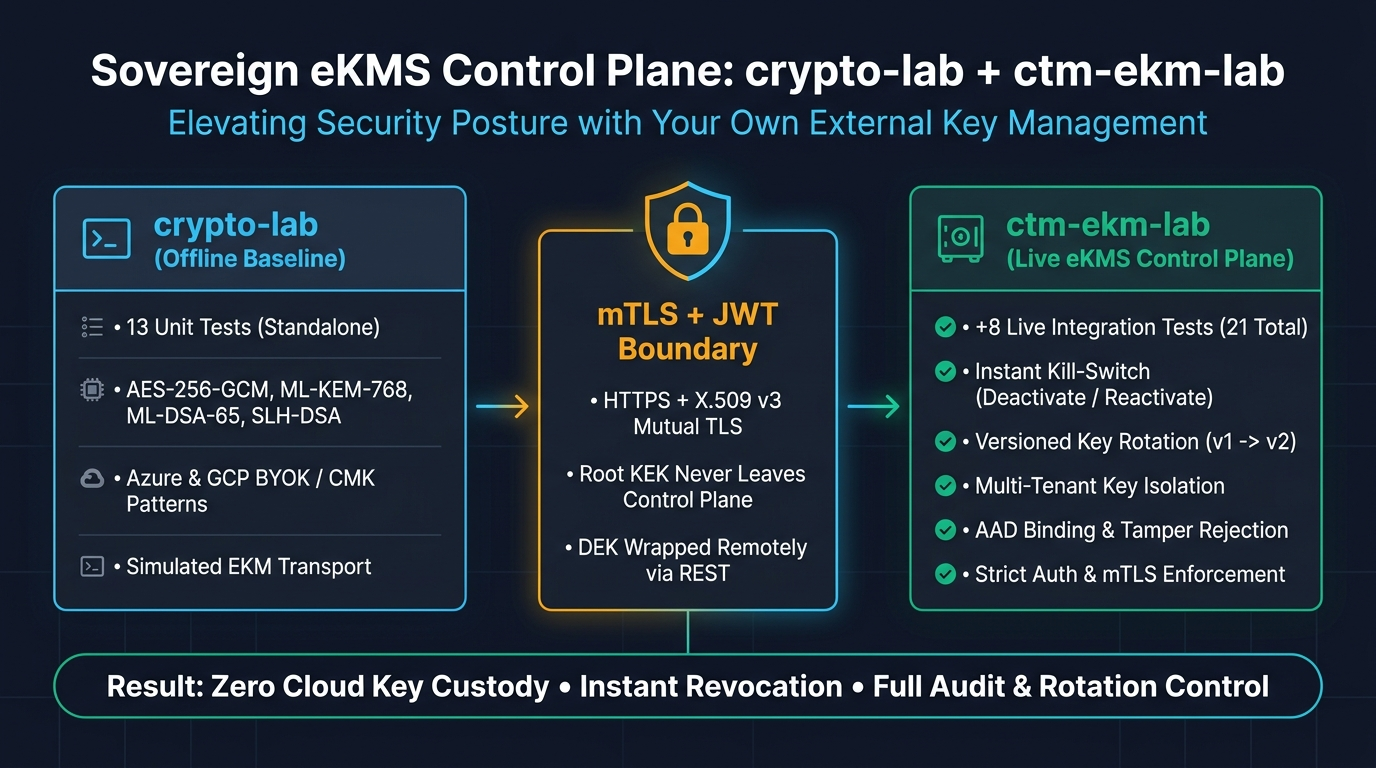
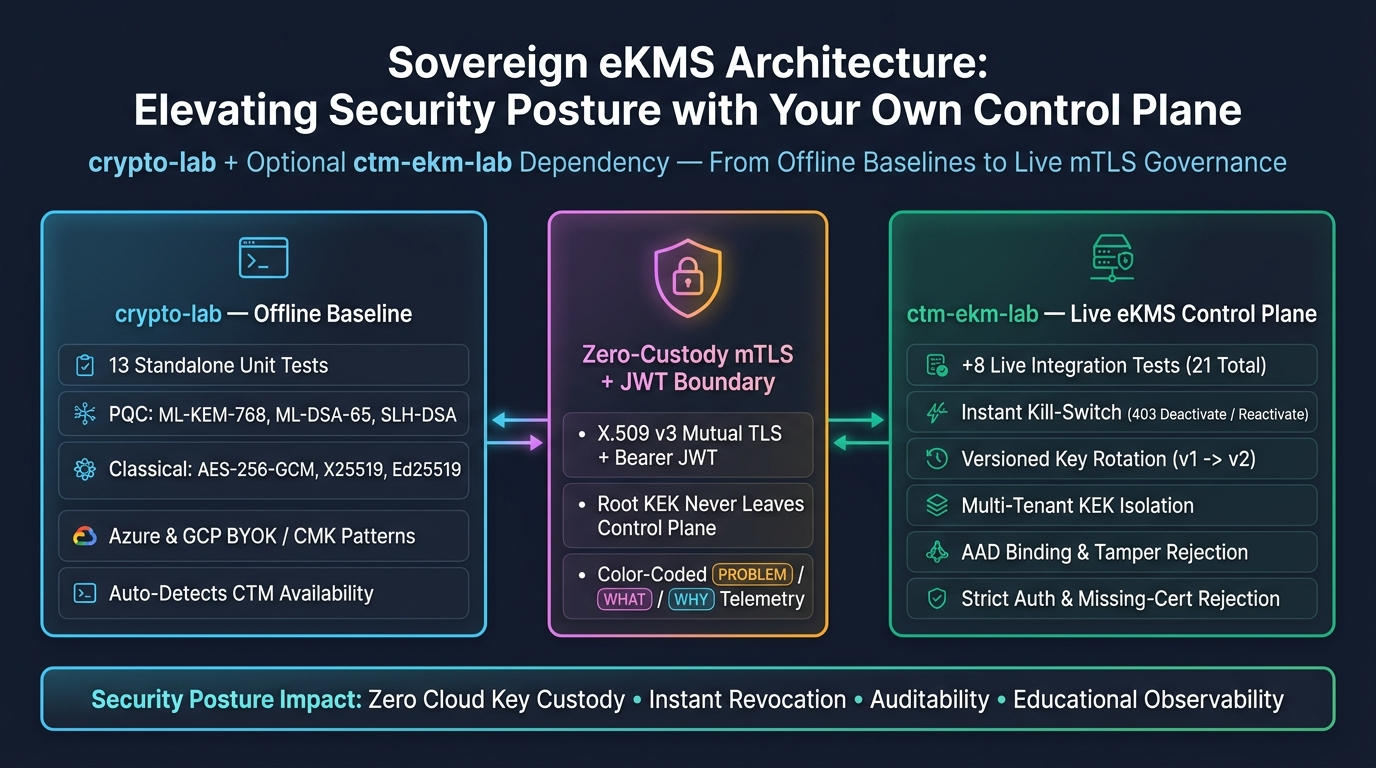
feat(milestone): release v1.5.0 — Sovereign eKMS integration, ADR-012, and updated architecture infographic
- Add ADR-012 documenting optional live ctm-ekm-lab integration, [CTM STATUS] availability reporting, and [PROBLEM]/[WHAT]/[WHY] educational telemetry.
- Update Sovereign eKMS architecture infographic in docs/assets/ekms-control-plane-infographic.jpg and README.md.
- Bump VERSION and javascript/package.json to 1.5.0 and update CHANGELOG.md.

Changed region(s): [[0.0312, 0.0625, 0.9688, 0.9688]]

diff --git a/ADRs/012-sovereign-ekm-integration-and-educational-observability.md b/ADRs/012-sovereign-ekm-integration-and-educational-observability.md
@@ -1,0 +1,16 @@
+# ADR-012: Sovereign eKMS Integration and Educational Observability
+
+## Status
+Accepted
+
+## Context
+Running `crypto-lab` standalone validates cryptographic primitives and cloud BYOK/CMK patterns using in-memory simulators, but teams adopting External Key Management (eKMS) also need live protocol verification (X.509 v3 mTLS, Bearer JWT, versioned key rotation, and instant kill-switch revocation) and clear, accessible output explaining *why* each control treats a real threat.
+
+## Decision
+1. **Optional Live Dependency (`ctm-ekm-lab`)**: Keep `crypto-lab` runnable offline by default, while automatically detecting `CIPHERTRUST_URL` at runtime in `demo_langs.sh`, `demo_langs.ps1`, and `python/test_ctm_integration.py` to unlock 8 live mTLS integration tests (21 Python tests total).
+2. **Explicit CTM Availability Reporting**: Print a prominent `[CTM STATUS] AVAILABLE / UNREACHABLE / NOT AVAILABLE` banner so operators and learners immediately know whether tests executed against a live control plane or the offline simulator.
+3. **Educational `[PROBLEM]` / `[WHAT]` / `[WHY]` Output**: Standardize color-coded threat narration (`python/edu_output.py`, `demo_langs.sh`) across all demos and Python tests (respecting `NO_COLOR`).
+
+## Consequences
+- Offline CI remains fast and credential-free (`13` passed, `8` skipped).
+- Live `ctm-ekm-lab` runs verify end-to-end mTLS, JWT auth, key rotation (`v1 -> v2`), multi-tenant isolation, and instant deactivation/reactivation (`21/21` passed).

diff --git a/README.md b/README.md
@@ -4,7 +4,7 @@
 
 Vetted classical and post-quantum (PQC) cryptographic reference implementations in **Python**, **Java 25**, **JavaScript (Node.js 22)**, and **PowerShell**, paired with Architectural Decision Records (ADRs) and an automated SBOM/CBOM supply-chain pipeline.
 
-**Version:** `1.4.0` (see [CHANGELOG.md](CHANGELOG.md) and [PQC Migration Assessment](docs/security/PQC_MIGRATION_ASSESSMENT.md))
+**Version:** `1.5.0` (see [CHANGELOG.md](CHANGELOG.md) and [PQC Migration Assessment](docs/security/PQC_MIGRATION_ASSESSMENT.md))
 
 ## Why This Project Exists
 
@@ -139,6 +139,7 @@ python3 scripts/analyze_cbom.py oss/cbom.json --sbom oss/sbom.cyclonedx.json --m
 - [ADR-009: Automated SBOM & CBOM Governance](ADRs/009-automated-sbom-cbom-supply-chain-governance.md)
 - [ADR-010: Post-Quantum Cryptography (ML-KEM-768 & ML-DSA-65)](ADRs/010-post-quantum-cryptography-ml-kem-ml-dsa.md)
 - [ADR-011: Cloud HSM BYOK/CMK & External KMS (EKM/HYOK) Control](ADRs/011-cloud-hsm-byok-cmk-and-ekm-control.md)
+- [ADR-012: Sovereign eKMS Integration & Educational Observability](ADRs/012-sovereign-ekm-integration-and-educational-observability.md)
 
 ## Contributing
 

diff --git a/CHANGELOG.md b/CHANGELOG.md
@@ -2,6 +2,13 @@
 
 All notable changes to this project are documented in this file.
 
+## [1.5.0] - 2026-11-18
+
+### Added
+- **Live `ctm-ekm-lab` Integration Suite (`python/test_ctm_integration.py`)**: Added 8 live mTLS integration tests (key provisioning/metadata, live envelope round-trip, AAD/tamper rejection, kill-switch deactivate/reactivate, versioned key rotation `v1 -> v2`, multi-tenant isolation, auth rejection, and missing mTLS client cert rejection).
+- **Educational `[PROBLEM]` / `[WHAT]` / `[WHY]` Telemetry**: Added `python/edu_output.py` and color-coded threat narration + `[CTM STATUS]` availability banners to `demo_langs.sh`, `demo_langs.ps1`, and all Python test suites.
+- **ADR-012 & Milestone Infographic**: Added `ADRs/012-sovereign-ekm-integration-and-educational-observability.md` and updated the Sovereign eKMS infographic across `crypto-lab` and `ctm-ekm-lab`.
+
 ## [1.4.0] - 2026-11-18
 
 ### Added
